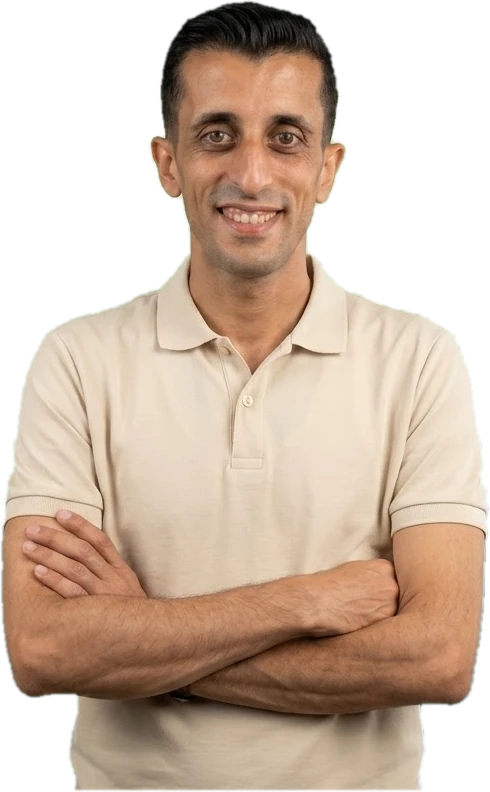
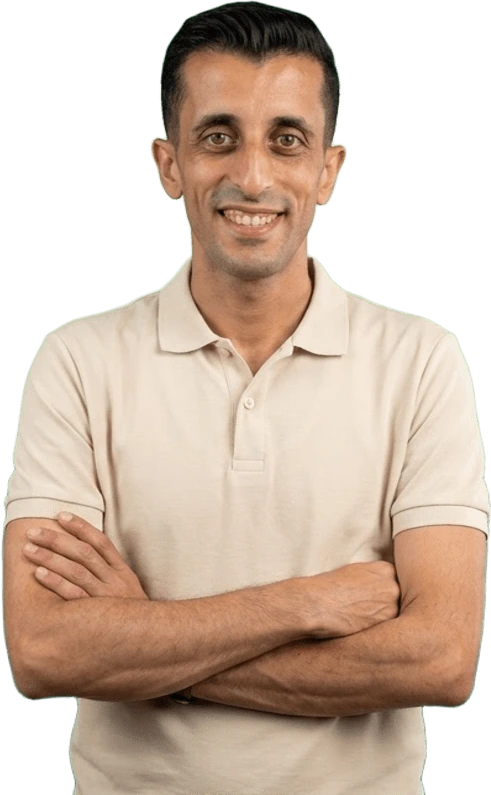
Add files via upload

diff --git a/index.html b/index.html
@@ -215,7 +215,6 @@ h1{font-family:'Reem Kufi','Readex Pro',sans-serif;font-weight:700}
 #wa{display:none;position:fixed;bottom:20px;left:20px;width:56px;height:56px;border-radius:50%;background:#25D366;place-items:center;box-shadow:0 8px 24px rgba(0,0,0,.25);z-index:60;transition:transform .2s}
 #wa:hover{transform:scale(1.08)}
 .wa-on #up{bottom:90px}
-#mbar{display:none}
 .fg{grid-template-columns:1.4fr 1fr 1fr}
 footer .soc{display:flex;gap:10px;flex-wrap:wrap;margin-bottom:12px}
 footer .soc a{display:grid;place-items:center;width:42px;height:42px;border-radius:50%;border:1px solid #2c3a50;opacity:.85;padding:0;transition:.2s}
@@ -225,10 +224,7 @@ footer .soc a:hover{background:var(--gold);border-color:var(--gold);color:#14202
 @media(max-width:860px){
 .fg{grid-template-columns:1fr}.tops{grid-template-columns:1fr}.vid{padding:60px 0}.vf{border-radius:22px;aspect-ratio:3/2}.vp .pb{width:68px;height:68px;margin:-34px}
 .hg>.astro{order:-1;max-width:300px}.hero{padding-top:118px}
-#mbar{display:flex;position:fixed;bottom:0;left:0;right:0;z-index:85;gap:10px;padding:10px 14px calc(10px + env(safe-area-inset-bottom,0px));background:color-mix(in srgb,var(--sf) 94%,transparent);backdrop-filter:blur(12px);border-top:1px solid var(--ln);transform:translateY(110%);transition:transform .3s}
-#mbar.on{transform:none}#mbar .btn{flex:1;justify-content:center}
-#wa{bottom:84px}#up{bottom:84px}.wa-on #up{bottom:150px}
-footer{padding-bottom:96px}}
+}
 @media(prefers-reduced-motion:reduce){.js .rv{opacity:1;translate:none;transition:none}}
 </style>
 </head>
@@ -259,7 +255,7 @@ footer{padding-bottom:96px}}
 <g id="tk"></g></g>
 <g class="ring2" fill="none" stroke="var(--pri)" stroke-width="2.5"><circle cx="200" cy="200" r="110"/><path d="M200 90 L215 200 L200 310 L185 200Z" fill="var(--pri)" opacity=".15"/><path d="M90 200H310"/><circle cx="200" cy="90" r="9" fill="var(--gold)" stroke="none"/><circle cx="310" cy="200" r="7" fill="var(--pri)" stroke="none"/></g>
 <circle cx="200" cy="200" r="30" fill="var(--pri)"/><text x="200" y="215" text-anchor="middle" font-family="Aref Ruqaa,serif" font-size="42" font-weight="700" fill="var(--onpri)">ع</text></svg>
-<img class="tchr" src="teacher.webp" alt="الأستاذ محمود رشدي، مدرس اللغة العربية" width="490" height="792" fetchpriority="high" decoding="async">
+<img class="tchr" src="teacher.webp" alt="الأستاذ محمود رشدي، مدرس اللغة العربية" width="491" height="795" fetchpriority="high" decoding="async">
 <div class="chip c1">التقييم<b>⭐ 4.9 / 5</b></div>
 <div class="chip c2">امتحان تفاعلي<b>✓ نتيجتك فورًا</b></div>
 </div></div>
@@ -296,7 +292,7 @@ footer{padding-bottom:96px}}
 </div></section>
 
 <section class="alt" id="about"><div class="wrap"><div class="ab">
-<div class="port"><img src="teacher.webp" alt="الأستاذ محمود رشدي، مدرس اللغة العربية" width="490" height="792" loading="lazy" decoding="async"><small>الأستاذ محمود رشدي · مدرس اللغة العربية</small></div>
+<div class="port"><img src="teacher.webp" alt="الأستاذ محمود رشدي، مدرس اللغة العربية" width="491" height="795" loading="lazy" decoding="async"><small>الأستاذ محمود رشدي · مدرس اللغة العربية</small></div>
 <div><h2>مع ابن رشدي، العربي أسهل مما تتخيل</h2>
 <p style="color:var(--mut)">مدرس لغة عربية خبير، بخبرة أكثر من 10 سنين في تدريس النحو والبلاغة والأدب. بيجمع في شرحه بين العمق والبساطة، وهدفه إنك تفهم الفكرة صح من أول مرة وتطبقها بنفسك.</p>
 <ul><li>أكثر من 10 سنين خبرة في تدريس اللغة العربية</li><li>شرح مبسّط بأمثلة من الواقع</li><li>مراجعات وامتحانات بعد كل وحدة</li><li>متابعة مستمرة لكل طالب</li></ul>
@@ -331,7 +327,6 @@ footer{padding-bottom:96px}}
 <div><h4>تابعنا</h4><div class="soc" id="soc"><a href="https://www.facebook.com/share/14pWxwwsfao/" target="_blank" rel="noopener noreferrer" aria-label="صفحتنا على فيسبوك"><svg viewBox="0 0 24 24" width="20" height="20" fill="currentColor" aria-hidden="true"><path d="M9.101 23.691v-7.98H6.627v-3.667h2.474v-1.58c0-4.085 1.848-5.978 5.858-5.978.401 0 .955.042 1.468.103a8.68 8.68 0 0 1 1.141.195v3.325a8.623 8.623 0 0 0-.653-.036 26.805 26.805 0 0 0-.733-.009c-.707 0-1.259.096-1.675.309a1.686 1.686 0 0 0-.679.622c-.258.42-.374.995-.374 1.752v1.297h3.919l-.386 2.103-.287 1.564h-3.246v8.245C19.396 23.238 24 18.179 24 12.044c0-6.627-5.373-12-12-12s-12 5.373-12 12c0 5.628 3.874 10.35 9.101 11.647Z"/></svg></a></div><div id="ct"></div></div>
 </div><div class="cp">© 2026 جميع الحقوق محفوظة لمنصة ابن رشدي.</div></div></footer>
 
-<div id="mbar"><a class="btn p" href="register.html">أنشئ حسابك الآن</a><a class="btn" href="login.html">دخول</a></div>
 <div class="ov" id="lb" role="dialog" aria-label="عرض النتيجة"><img id="lbi" alt=""></div>
 <a id="wa" href="#" target="_blank" rel="noopener noreferrer" aria-label="تواصل معنا على واتساب"><svg width="30" height="30" viewBox="0 0 24 24" fill="#fff"><path d="M12 2a10 10 0 0 0-8.6 15.1L2 22l5-1.3A10 10 0 1 0 12 2zm5.2 14.2c-.2.6-1.3 1.2-1.8 1.2-.5.1-1 .2-3.3-.7-2.8-1.2-4.6-4-4.7-4.2-.1-.2-1.1-1.5-1.1-2.8s.7-2 1-2.3c.2-.3.5-.3.7-.3h.5c.2 0 .4 0 .6.5l.8 2c.1.2.1.4 0 .5l-.4.6-.3.3c-.1.2-.3.3-.1.6.2.3.8 1.3 1.7 2.1 1.1 1 2 1.3 2.3 1.4.3.1.5.1.6-.1l.9-1.1c.2-.3.4-.2.6-.1l1.9.9c.3.1.5.2.5.3.1.2.1.6-.1 1.1z"/></svg></a>
 <script src="home.js" defer></script>

diff --git a/home.js b/home.js
@@ -73,11 +73,10 @@ $$('#ql button').forEach(b=>b.onclick=()=>{ask(+b.dataset.i);if(innerWidth<860)$
  if(!on)return;
  document.querySelectorAll('a[href="register.html"]').forEach(a=>{a.href='dashboard.html';a.textContent='لوحتي ←'});
  document.querySelectorAll('a[href="login.html"],a[href="parent.html"]').forEach(a=>{a.style.display='none'})})();
-// ===== واتساب العايم =====
-(()=>{const WA=(SITE.whatsapp||'').replace(/\D/g,'');if(!WA)return;const a=document.getElementById('wa');a.href='https://wa.me/'+WA+'?text='+encodeURIComponent('أهلاً، عندي استفسار عن منصة ابن رشدي');a.style.display='grid';document.body.classList.add('wa-on')})();
-
-// ===== شريط التسجيل الثابت على الموبايل =====
-(()=>{const mb=$('#mbar');if(!mb)return;const f=()=>mb.classList.toggle('on',scrollY>520);addEventListener('scroll',f,{passive:true});f()})();
+// ===== واتساب العايم (بيظهر دايمًا؛ لو الرقم فاضي بيطلع رسالة) =====
+(()=>{const a=document.getElementById('wa');if(!a)return;const WA=(SITE.whatsapp||'').replace(/\D/g,'');a.style.display='grid';document.body.classList.add('wa-on');
+if(WA)a.href='https://wa.me/'+WA+'?text='+encodeURIComponent('أهلاً، عندي استفسار عن منصة ابن رشدي');
+else a.onclick=e=>{e.preventDefault();toast('رقم الواتساب هيتضاف قريب')}})();
 
 // ===== الفيديو التعريفي =====
 (()=>{const b=$('#vp');if(!b)return;
